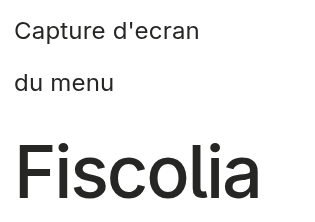
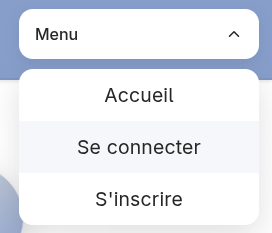
feat(homepage): add pictures and change default cursor type

Changed region(s): [[0.0, 0.0, 1.0, 0.4595], [0.0, 0.5946, 0.8235, 1.0], [0.8235, 0.1351, 0.8824, 0.1622]]

diff --git a/srcs/frontend/srcs/index.css b/srcs/frontend/srcs/index.css
@@ -42,7 +42,7 @@
   box-sizing: border-box;
   flex-shrink: 0;
   padding-left: clamp( 8px, 1vw, 20px );
-  padding-right: clamp( 8px, 1vw, 20px );*/
+  padding-right: clamp( 8px, 1vw, 20px );
 
 }
 
@@ -136,6 +136,7 @@
   --color-gray: #D9D9D9;
   --color-black:#262624;
   --color-white:white;
+  --color-white2: #fafafa;
   --mono: ui-monospace, Consolas, monospace;
   --font-main:
   --shadow:rgba(0, 0, 0, 0.1) 0 10px 15px -3px, rgba(0, 0, 0, 0.05) 0 4px 6px -2px;
@@ -147,6 +148,7 @@
 
   --header1-size: clamp( 3rem, 4.5vw, 4rem );
   --header2-size: clamp(0.9rem, 2.6vw, 1.9rem);
+  --margin-bottom: clamp( 0.1rem, 1vw, 0.5rem );
 
 
   letter-spacing: 0.18px;
@@ -188,7 +190,7 @@ body {
   box-sizing: border-box;
 
   color: var( --color-black );
-  background-color: var( --color-white );
+  background: linear-gradient( to bottom, var( --color-white ), var( --color-white2 ) );
 
 }
 
@@ -197,6 +199,7 @@ body {
   color: var( --color-black );
   font-family: var( --sans );
   font-size: var( --text-size );
+  cursor: pointer;
 
 }
 
@@ -247,7 +250,7 @@ p {
   color: var(--color-black);
   font-size: var( --text-size );
   font-family: var( --sans );
-  margin-bottom:  clamp( 0.1rem, 1vw, 0.5rem );
+  margin-bottom:  var( --margin-bottom );
 
 }
 

diff --git a/srcs/frontend/srcs/pages/Homepage/Homepage.css b/srcs/frontend/srcs/pages/Homepage/Homepage.css
@@ -103,10 +103,10 @@
 
 .photo-home-block img{
 
-  width:  clamp( 14px, 30vw, 200px );
+  width:  clamp( 18px, 40vw, 230px );
   height: clamp( 14px, 30vw, 200px );
+  box-shadow: 0 1px 2px var( --color-gray );
   display: block;
-  /*border: 1px solid black;*/
 
 }
 

diff --git a/srcs/frontend/srcs/pages/Homepage/Homepage.jsx b/srcs/frontend/srcs/pages/Homepage/Homepage.jsx
@@ -6,7 +6,7 @@ import img_chatbot from '../../assets/site_screenshots/chatbot.png'
 import img_emoji from '../../assets/site_screenshots/emoji.png'
 import img_menu from '../../assets/site_screenshots/menu.png'
 import img_modify_profil from '../../assets/site_screenshots/modify_profil.png'
-import img_watch from '../../assets/watch.jpg'
+import img_time from '../../assets/time.png'
 import img_paix from '../../assets/paix.png'
 import '../../index.css'
 
@@ -42,7 +42,7 @@ function Home() {
 
 			<div className="home-block">
 				<div className="photo-home-block">
-					<img src={img_watch} alt="watch" />
+					<img src={img_time} alt="time" />
 				</div>
 				<div className="text-home-block">
 					<h2>Pourquoi choisir une assistance?</h2>

diff --git a/srcs/frontend/srcs/Components/Components_of_site.css b/srcs/frontend/srcs/Components/Components_of_site.css
@@ -22,7 +22,6 @@
   font-size: 16px;
   font-weight: 500;
 
-  cursor: pointer;
   transition: all 0.25s ease;
 }
 
@@ -74,7 +73,6 @@
 
   font-size: var();
   padding: 14px 16px;
-  cursor: pointer;
   transition: background 0.2s ease;
 
 }